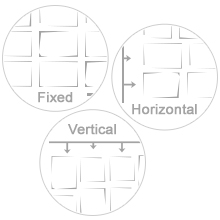
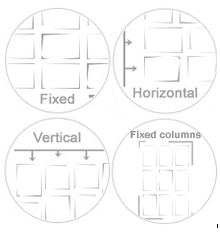
version 1.3.7
git-svn-id: https://plugins.svn.wordpress.org/gallery-by-supsystic/trunk@1224047 b8457f37-d9ea-0310-8a92-e5e31aec5664

diff --git a/src/GridGallery/Galleries/configs/tooltips.php b/src/GridGallery/Galleries/configs/tooltips.php
@@ -3,18 +3,18 @@
 return array(
     'tooltips' => array(
         // Area
-        'grid-type' => 'There are 3 gallery types:</br>Fixed, Horizontal, Vertical</br><img src=@url/Grid.jpg />',
+        'grid-type' => 'There are 4 gallery types:</br>Fixed, Horizontal, Vertical, Fixed Columns</br><img src=@url/Grid.jpg />',
         'columns' => 'Number of columns with images on gallery page',
         'distance' => '</br><img src=@url/distance_between_photos.jpg />',
         'area-height' => 'Height',
-        /*'area-width' => 'Width',*/
+        'area-width' => '</br><img src=@url/gallery-width.jpg />',
         'photo-width' => '</br><img src=@url/width_bet_photos.jpg>',
         'photo-height' => '</br><img src=@url/height_bet_photos.jpg>',
         // Border
         'border-type' => '<p><img src=@url/solid_border.jpg><img src=@url/Dashed_border.jpg></p><p><img src=@url/dotted_border.jpg><img src=@url/double_border.jpg></p>',
         /*'border-color' => 'Select color',*/
         'border-width' => 'This option will work if selected Border type',
-        'border-radius' => 'Set the radius for a picture',
+        'border-radius' => '</br><img src=@url/image-radius.jpg>',
         // Shadow
         /*'shadow-color' => 'Select color',*/
         'shadow-blur' => 'Blur in percents',

diff --git a/app/SupsysticGallery.php b/app/SupsysticGallery.php
@@ -30,7 +30,7 @@ class SupsysticGallery
 
         /* Create new plugin $environment */
         $pluginPath = dirname(dirname(__FILE__));
-        $environment = new Rsc_Environment('sgg', '1.3.6', $pluginPath);
+        $environment = new Rsc_Environment('sgg', '1.3.7', $pluginPath);
 
         /* Configure */
         $environment->configure(

diff --git a/index.php b/index.php
@@ -3,7 +3,7 @@
 /**
  * Plugin Name: Gallery by Supsystic
  * Description: Easy to use Gallery with professional gallery templates. Show off your best design, photography and creative work
- * Version: 1.3.6
+ * Version: 1.3.7
  * Author: supsistic.com
  * Author URI: http://supsystic.com
  * Text Domain: grid-gallery
